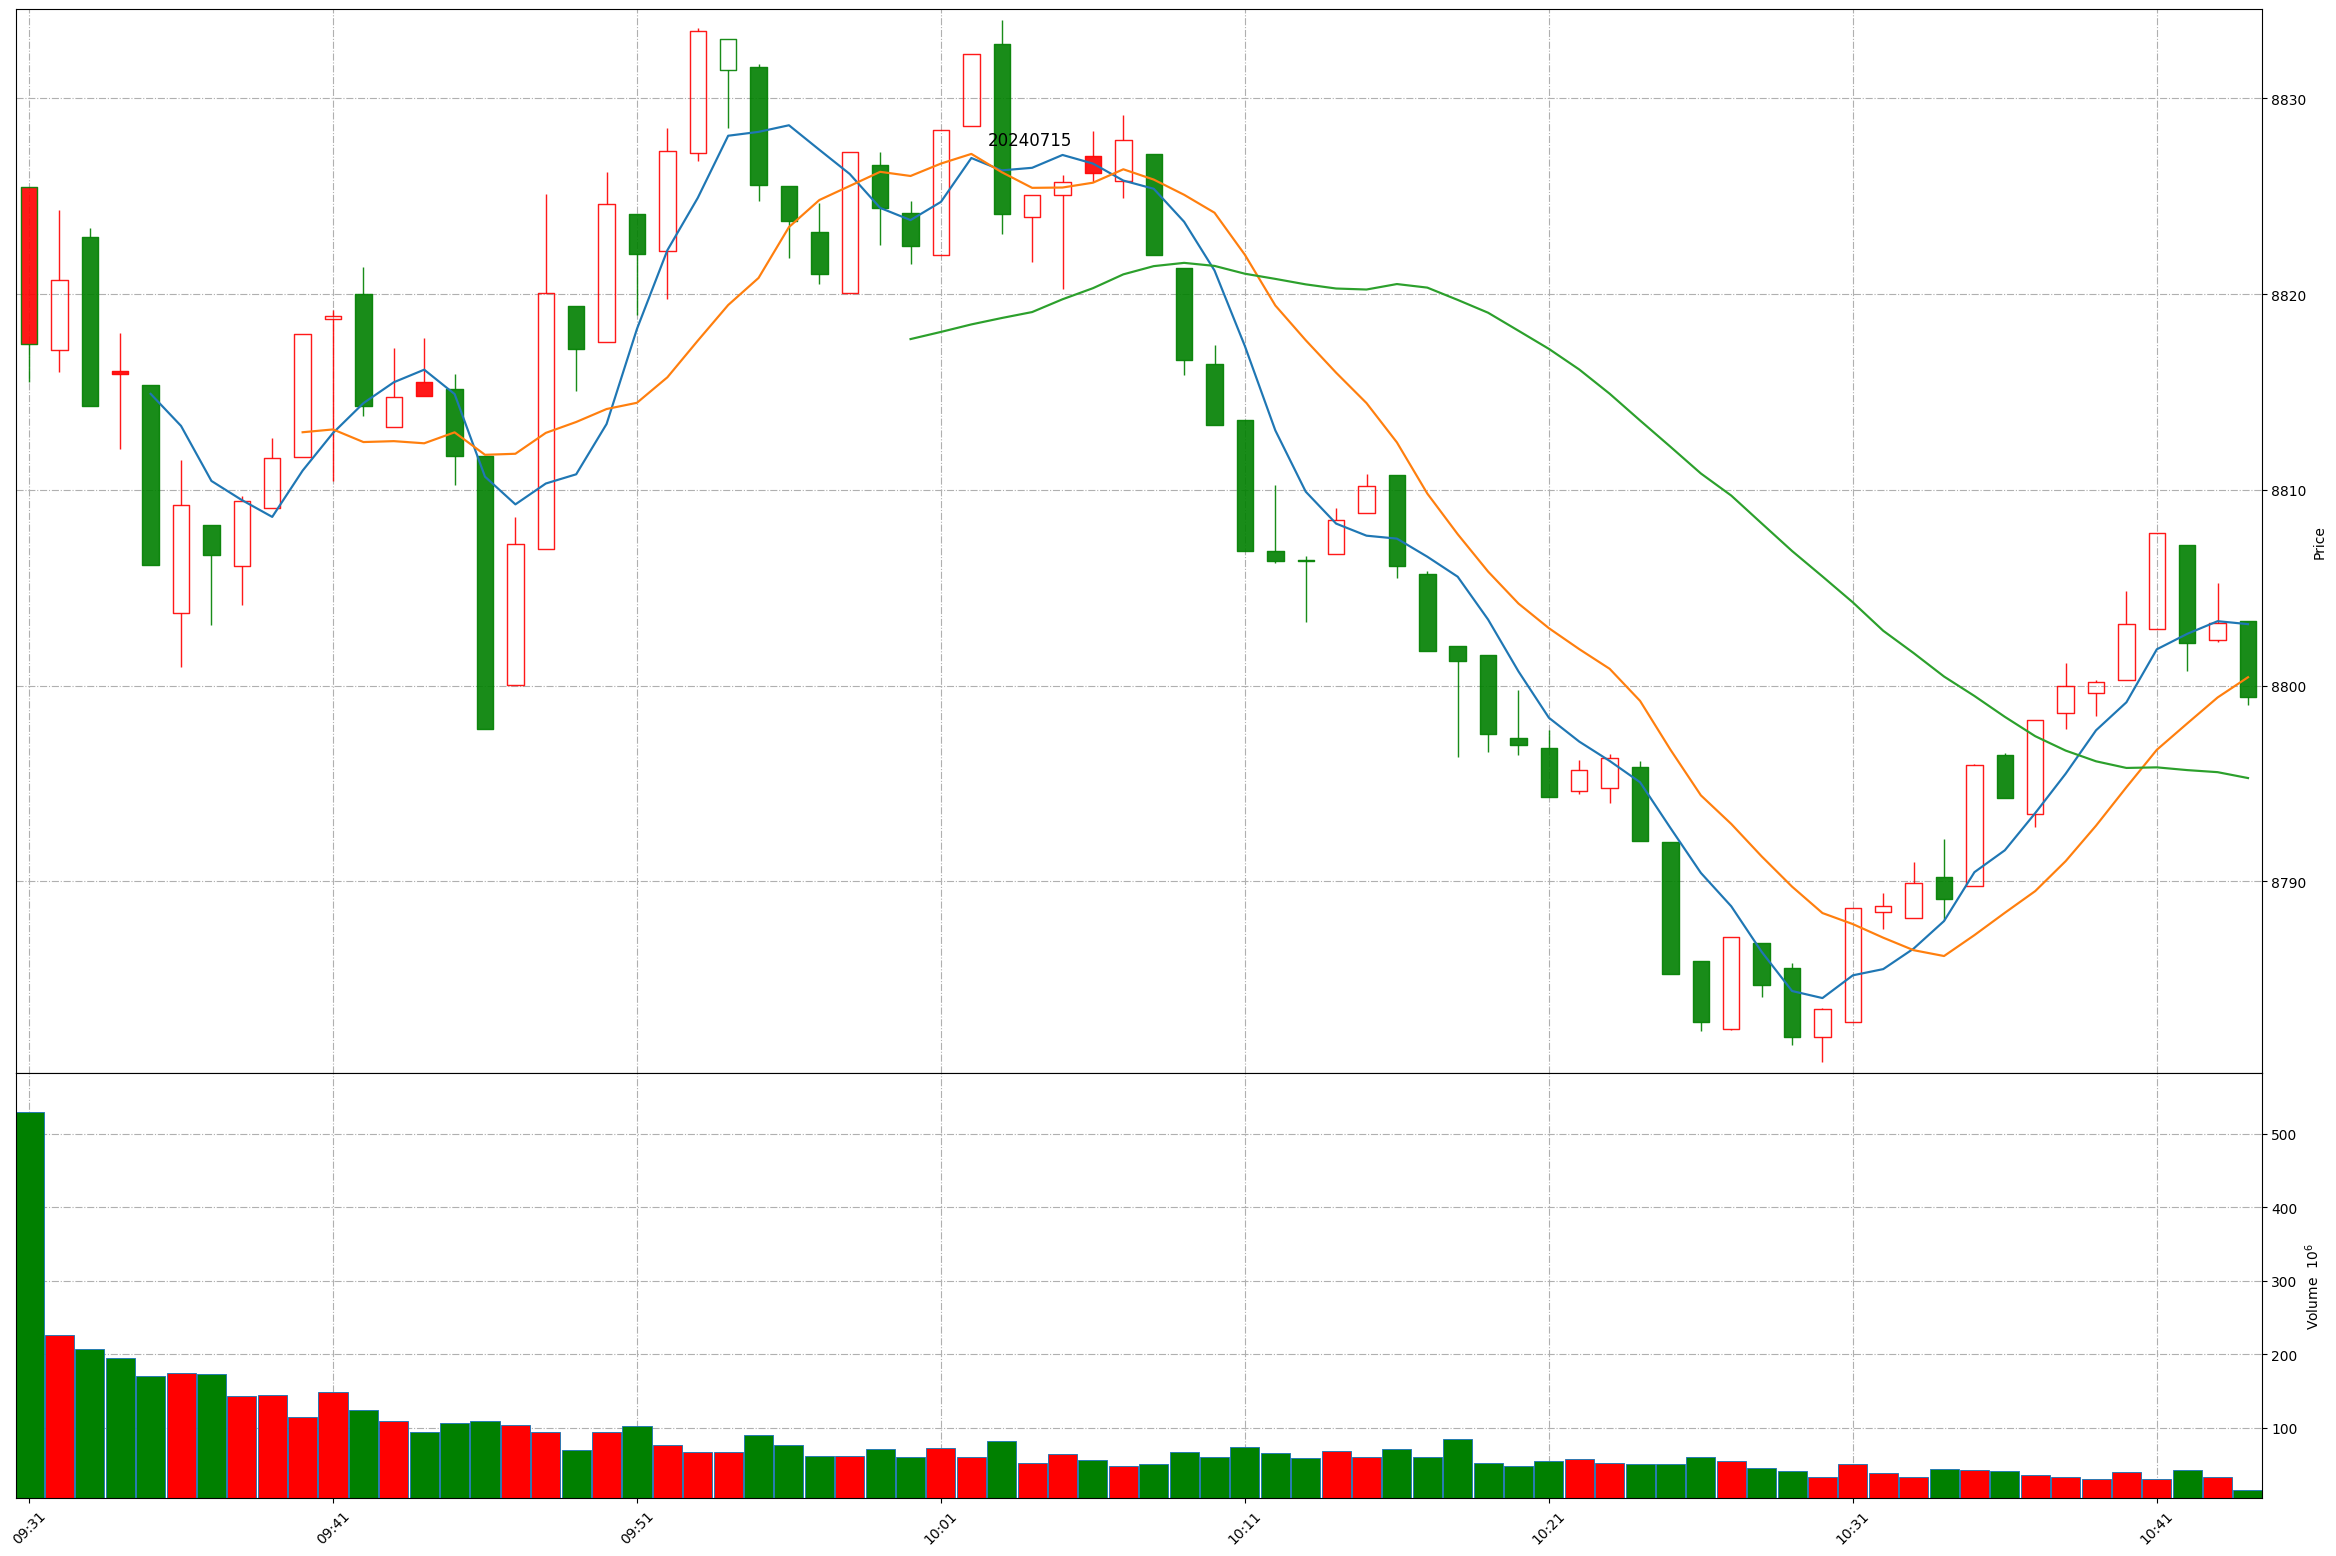
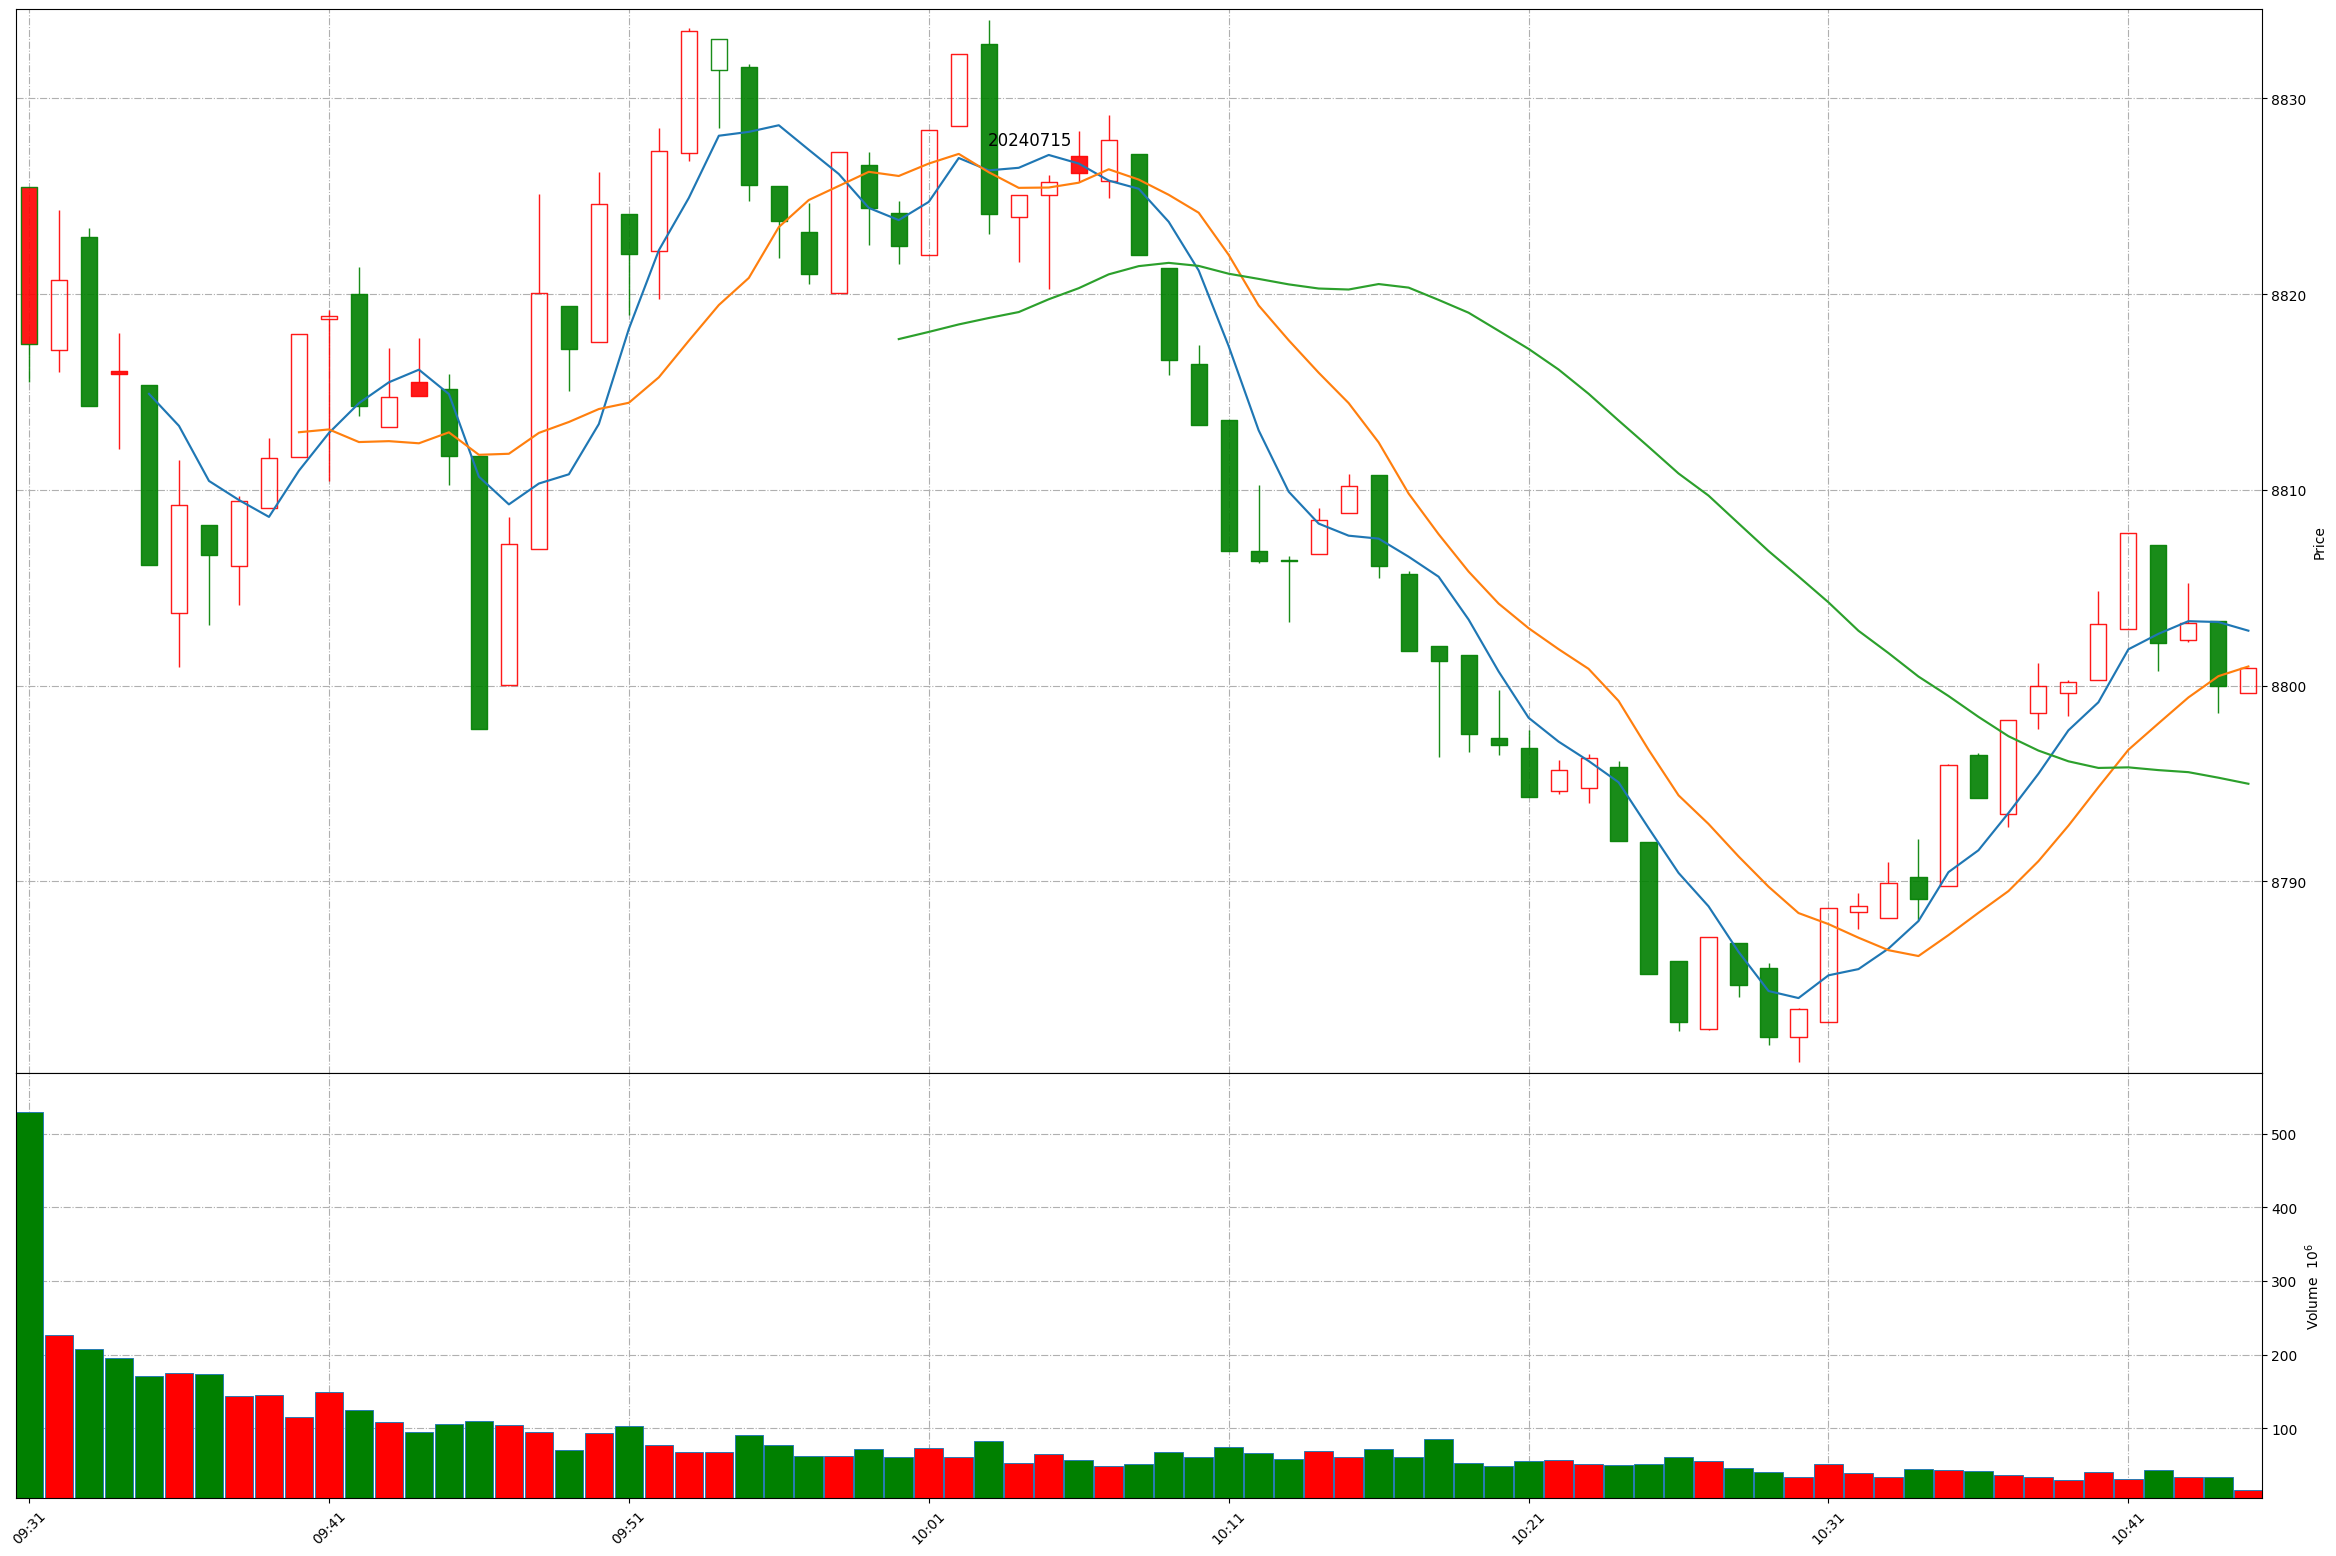
Github action update at 2024-07-15 10:44:42.

diff --git a/README.md b/README.md
@@ -1,11 +1,11 @@
 
 # Daily-A-share-market-quotes 每日 A 股指数（5min 更新）- 20240715
 
-### 上证指数 20240715 10:43
+### 上证指数 20240715 10:44
 ![](./fig/2024/7/20240715-sh000001.png)
 
-### 深证成指 20240715 10:43
+### 深证成指 20240715 10:44
 ![](./fig/2024/7/20240715-sz399001.png)
 
-### 北证50 20240715 10:43
+### 北证50 20240715 10:44
 ![](./fig/2024/7/20240715-bj899050.png)
